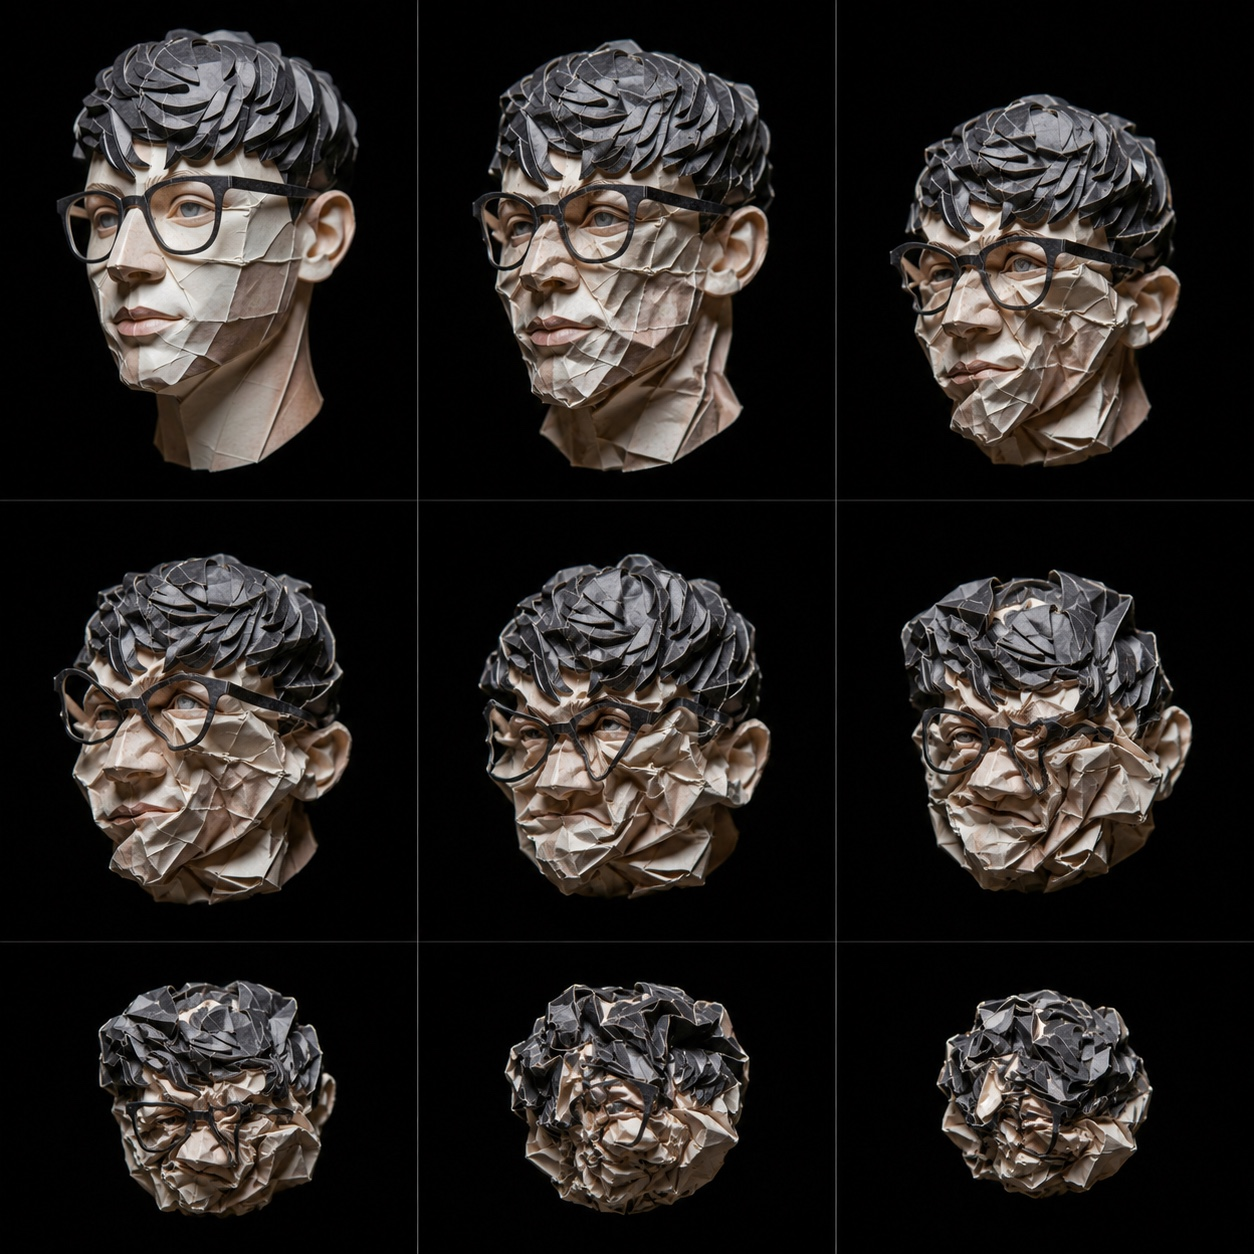
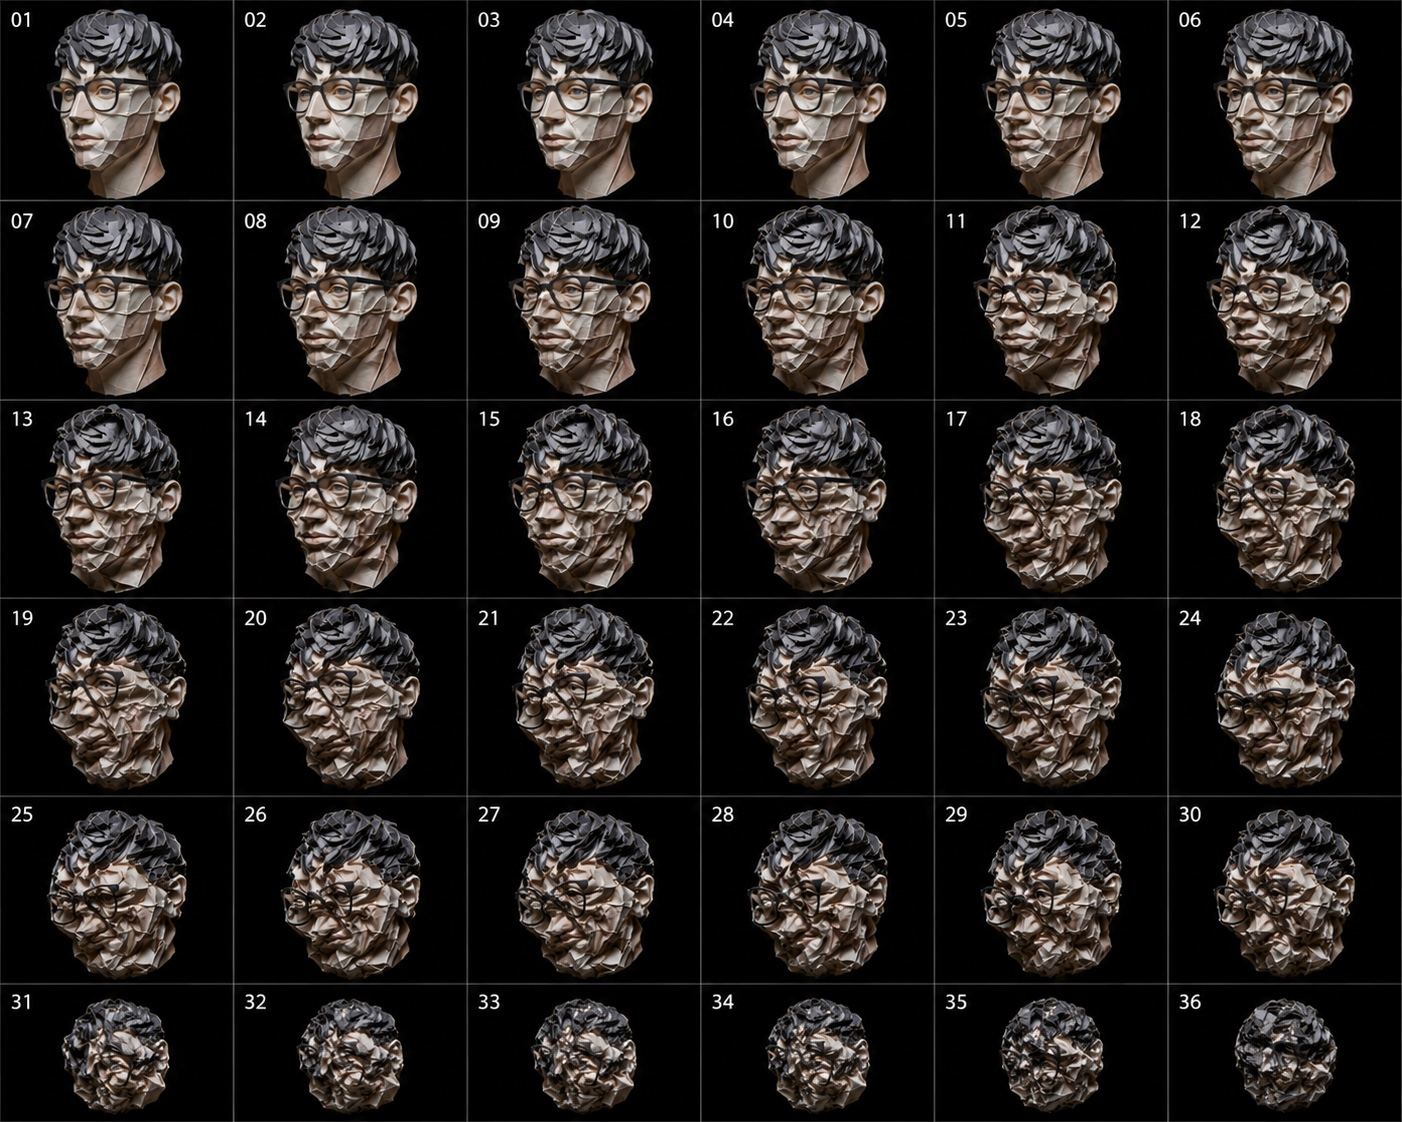
Swap in the denser 6x6 (36-frame) crumple sheet for smooth blending
Replace the 9-frame sheet with the 36-frame 6x6 sequence — adjacent frames
are now nearly identical, so cross-fading reads as a continuous crumple
instead of stepping between distant poses. Parameterise the slicer to
COLS/ROWS and lift the top scan margin to 12%% so the 01-36 frame numbers
in each cell's corner are cropped out, not keyed onto the foreheads.

diff --git a/index.html b/index.html
@@ -1567,15 +1567,15 @@ setLang(localStorage.getItem('lang')||'en');
   var wrap=document.getElementById('herofx-wrap'),cv=document.getElementById('herofx'),btn=document.getElementById('herofx-hand');
   if(!wrap||!cv)return;
   var ctx=cv.getContext('2d');
-  var img=new Image();img.crossOrigin='anonymous';var ready=false,N=9,frames=[],LARGEST=1;
+  var img=new Image();img.crossOrigin='anonymous';var COLS=6,ROWS=6,N=COLS*ROWS,ready=false,frames=[],LARGEST=1;
   var curT=0,targetT=0,mhold=false,handOpenRaw=1,handOpen=1,handT=0,handOn=false;
   function now(){return (window.performance&&performance.now())||0;}
   img.onload=function(){
-    var cw=img.width/3,ch=img.height/3,tmp=document.createElement('canvas');tmp.width=cw;tmp.height=ch;var tc=tmp.getContext('2d');
-    for(var k=0;k<9;k++){var col=k%3,row=(k/3)|0;
+    var cw=img.width/COLS,ch=img.height/ROWS,tmp=document.createElement('canvas');tmp.width=cw;tmp.height=ch;var tc=tmp.getContext('2d');
+    for(var k=0;k<N;k++){var col=k%COLS,row=(k/COLS)|0;
       tc.clearRect(0,0,cw,ch);tc.drawImage(img,col*cw,row*ch,cw,ch,0,0,cw,ch);
       var id=tc.getImageData(0,0,cw,ch),d=id.data;
-      var Lm=(cw*0.07)|0,Rm=Math.ceil(cw*0.93),Tm=(ch*0.035)|0,Bm=Math.ceil(ch*0.965);   /* scan only the centre → ignore grid line + neighbour bleed */
+      var Lm=(cw*0.05)|0,Rm=Math.ceil(cw*0.95),Tm=(ch*0.12)|0,Bm=Math.ceil(ch*0.97);   /* scan centre only → ignore grid line, bleed AND the 01-36 frame number top-left */
       var minx=cw,miny=ch,maxx=0,maxy=0,found=false;
       for(var y=0;y<ch;y++)for(var x=0;x<cw;x++){var i=(y*cw+x)*4,lum=0.299*d[i]+0.587*d[i+1]+0.114*d[i+2];
         d[i+3]=lum<=8?0:(lum>=22?255:((lum-8)/14*255)|0);                                 /* key near-black bg → transparent */